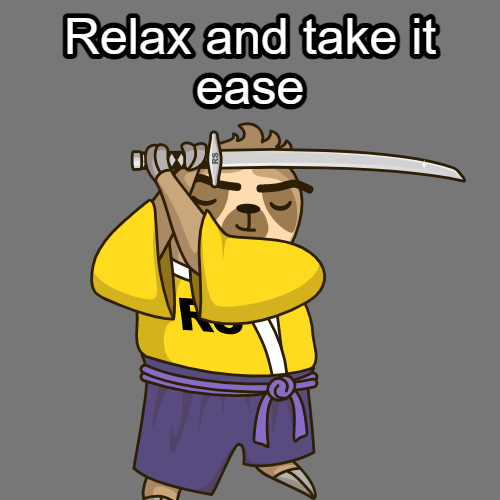
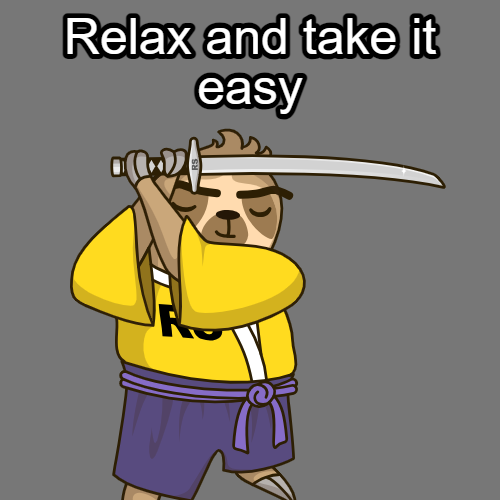
feat: add styles (Sun, Sep 17, 2023 5:02:10 PM)

Changed region(s): [[0.12, 0.12, 0.93, 1.0]]

diff --git a/cssMemeSlider/style.css b/cssMemeSlider/style.css
@@ -1,0 +1,126 @@
+* {
+  margin: 0;
+  padding: 0;
+  box-sizing: border-box;
+  font-family: Arial, Helvetica, sans-serif;
+}
+html {
+  scroll-behavior: smooth;
+  font-size: 62.5%;
+}
+
+body {
+  background-color: #252525;
+}
+
+img {
+  width: 100%;
+  height: auto;
+  object-fit: cover;
+  display: block;
+  /* margin: 0 auto; */
+}
+
+h2 {
+  color: #212121;
+  font-size: 4rem;
+  margin: 0 auto;
+  text-align: center;
+  font-size: 3rem;
+}
+
+li {
+  list-style-type: none;
+}
+
+input {
+  display: none;
+}
+
+input + label {
+  cursor: pointer;
+}
+
+.container {
+  width: 70%;
+  margin: 5rem auto;
+  background: linear-gradient(#2b2b2b, #1a1a1a);
+  border-radius: 2rem;
+  box-shadow: 3px 3px 3px rgba(0, 0, 0, 0.5);
+  padding: 2rem;
+}
+
+.carousel {
+  width: 50%;
+  height: auto;
+  margin: 0 auto;
+  display: flex;
+  overflow: hidden;
+  border-radius: 2rem;
+  box-shadow: 0px 3px 3px rgba(0, 0, 0, 0.5);
+  margin-bottom: 1.5rem;
+}
+
+.carousel__item {
+  background-color: rgb(255, 230, 0);
+  width: 100%;
+  height: auto;
+  flex-shrink: 0;
+}
+
+.pagination-wrapper {
+  width: 50%;
+  height: auto;
+  margin: 0 auto;
+}
+
+.pagination {
+  display: flex;
+  justify-content: center;
+  column-gap: 1rem;
+}
+
+.pagination__item {
+  width: 2.5rem;
+  height: 2.5rem;
+  display: flex;
+  justify-content: center;
+  align-items: center;
+}
+
+.btn {
+  display: block;
+  width: 2rem;
+  height: 2rem;
+  border: 0.2rem solid #e5ff00;
+	background: #e5ff00;
+  border-radius: 50%;
+	transition: background 0.4s linear, border 0.4s linear;
+}
+
+.pagination__item:hover,
+.btn:hover {
+  cursor: pointer;
+	transition: background 0.4s linear, border 0.4s linear;
+}
+
+.pagination__item:hover .btn:not(input:checked + .btn) {
+	border: 0.2rem solid #007bff;
+	background: #007bff;
+	transition: background 0.4s linear, border 0.4s linear;
+}
+
+input:checked + .btn {
+  background: transparent;
+	transition: border 0.4s linear;
+}
+
+input:checked + .btn:hover {
+	border: 0.2rem solid #007bff;
+	transition: border 0.4s linear;
+}
+
+.pagination__item .btn:active {
+	background: #40ff00;
+	border: 0.2rem solid #40ff00;
+}

diff --git a/cssMemeSlider/index.html b/cssMemeSlider/index.html
@@ -16,15 +16,15 @@
 				</li>
 				<li class="carousel__item">
 					<img src="./assets/images/meme-2.png" alt="meme">
-					<h2>text2</h2>
+					<h2>Keep calm and carry on</h2>
 				</li>
 				<li class="carousel__item">
 					<img src="./assets/images/meme-3.png" alt="meme">
-					<h2>text3</h2>
+					<h2>You can't just copy and paste css</h2>
 				</li>
 				<li class="carousel__item">
 					<img src="./assets/images/meme-4.png" alt="meme">
-					<h2>text4</h2>
+					<h2>Relax and take it easy</h2>
 				</li>
 			</ul>
 			<div class="pagination-wrapper">
